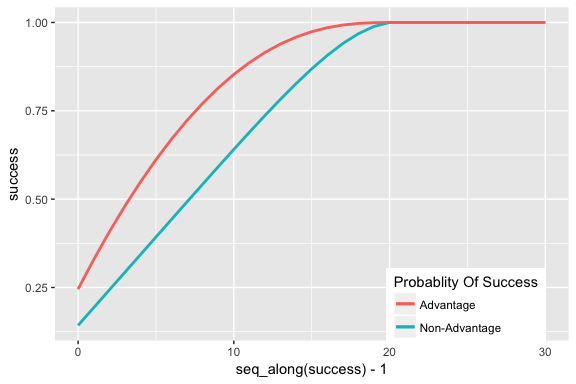
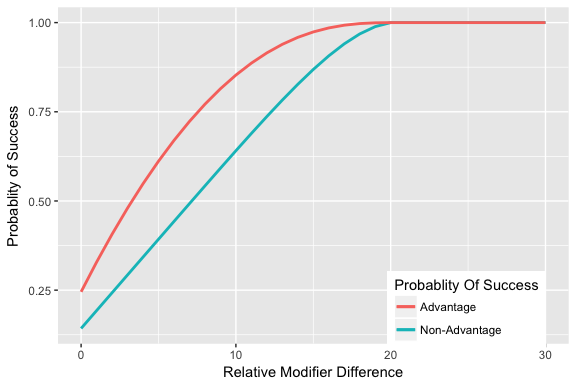
Minor formatting change

diff --git a/DNDProbs.md b/DNDProbs.md
@@ -2,7 +2,11 @@
 DND Probs
 ---------
 
-In DND, players roll a 20 sided dice to determine if their actions are successful. The number they roll is contested by a difficulty check. If the player rolls a number higher than the difficulty check, the action is successful. For example, attempting to sneak past a guard might call for a player to roll a 15 or higher. /n Within the newest edition of DnD, there is a mechanic called advantage and disadvantage. They let the player roll the dice two times and take either the higher or the lower of the two numbers as their roll, respectively. /n Below we see the probablity distrobutions for rolling a certain number given a roll with advantage, disadvantage, or under normal circumstances.
+In DND, players roll a 20 sided dice to determine if their actions are successful. The number they roll is contested by a difficulty check. If the player rolls a number higher than the difficulty check, the action is successful. For example, attempting to sneak past a guard might call for a player to roll a 15 or higher.
+
+Within the newest edition of DnD, there is a mechanic called advantage and disadvantage. They let the player roll the dice two times and take either the higher or the lower of the two numbers as their roll, respectively.
+
+Below we see the probability distributions for rolling a certain number given a roll with advantage, disadvantage, or under normal circumstances.
 
 #### Probablity of Dice Rolls
 
@@ -27,7 +31,9 @@ grid.arrange(norm, adv, disadv, ncol=3)
 
 ![](DNDProbs_files/figure-markdown_github-ascii_identifiers/Dice_Distros-1.png)
 
-Sometimes, you aren't rolling against a single number to determine if you are successful, but many numbers. In the case of a rogue sneaking past many guards, the rogue will roll a dice vs every single guards roll. /n We know the probablity of a player rolling a certain numbers, now we need to determine given N number of guards what is the probability of at least one of the guards rolling a certain number. Below we will show the probabilities for rolling values given 5, 10 and, 15
+Sometimes, you aren't rolling against a single number to determine if you are successful, but many numbers. In the case of a rogue sneaking past many guards, the rogue will roll a dice vs every single guards roll.
+
+We know the probability of a player rolling a certain numbers, now we need to determine given N number of guards what is the probability of at least one of the guards rolling a certain number. Below we will show the probabilities for rolling values given 5, 10 and, 15.
 
 ``` r
 num_guards <- 5
@@ -74,7 +80,7 @@ adv_success <- vapply(0:30, function(x) sum(encounter[encounter[,1] < (encounter
 g <- ggplot() + 
   geom_line(aes(seq_along(success)-1,success, color="red"), data.frame(success),size=1) +
   geom_line(aes(seq_along(adv_success)-1,adv_success, colour="blue"), data.frame(adv_success),size=1) +
-  scale_color_discrete(name = "Probablity Of Success", labels = c("Advantage", "Non-Advantage")) + theme(legend.position=c(0.8, 0.1))
+  scale_color_discrete(name = "Probablity Of Success", labels = c("Advantage", "Non-Advantage")) + theme(legend.position=c(0.8, 0.1)) + xlab("Relative Modifier Difference") +ylab("Probablity of Success")
 g
 ```
 
